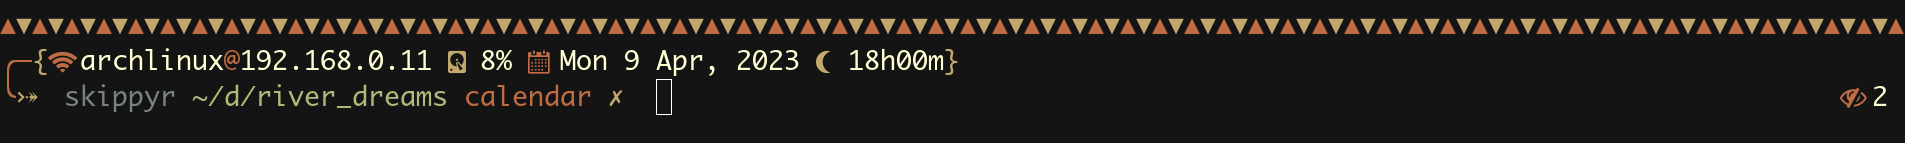
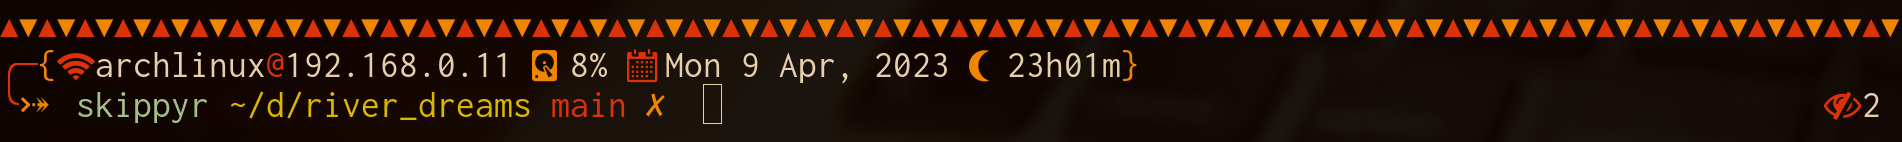
docs: update preview with flamerial

diff --git a/README.md b/README.md
@@ -7,6 +7,8 @@ A fast ZSH theme for programmers and hackers.
 > River Dreams with fallback text.
 ![](images/image_1.png)
 
+In the images, River Dreams was used on [Kitty](https://github.com/kovidgoyal/kitty) with [Flamerial](https://github.com/skippyr/flamerial) color scheme and [Inconsolata](https://github.com/googlefonts/Inconsolata) font.
+
 It shows:
 + local ipv4 address and hostname.
 + disk usage percentage.
